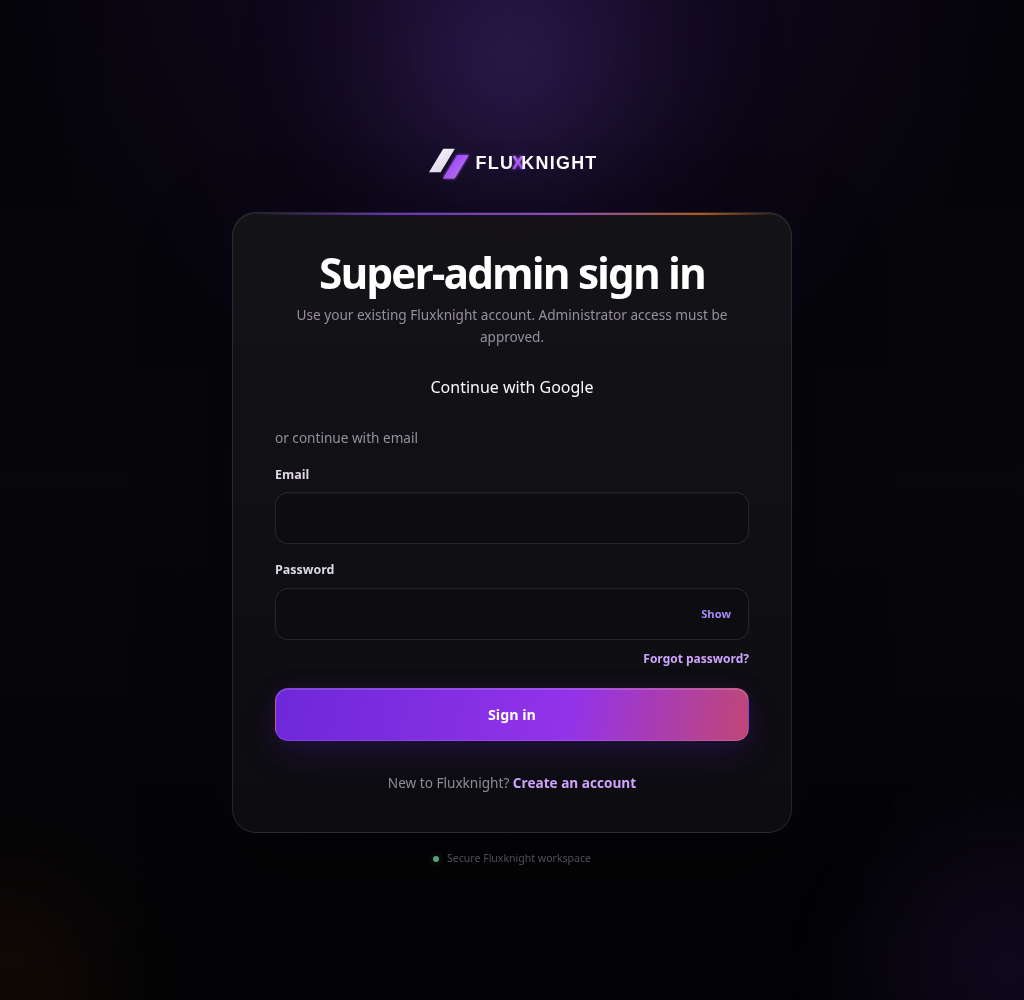
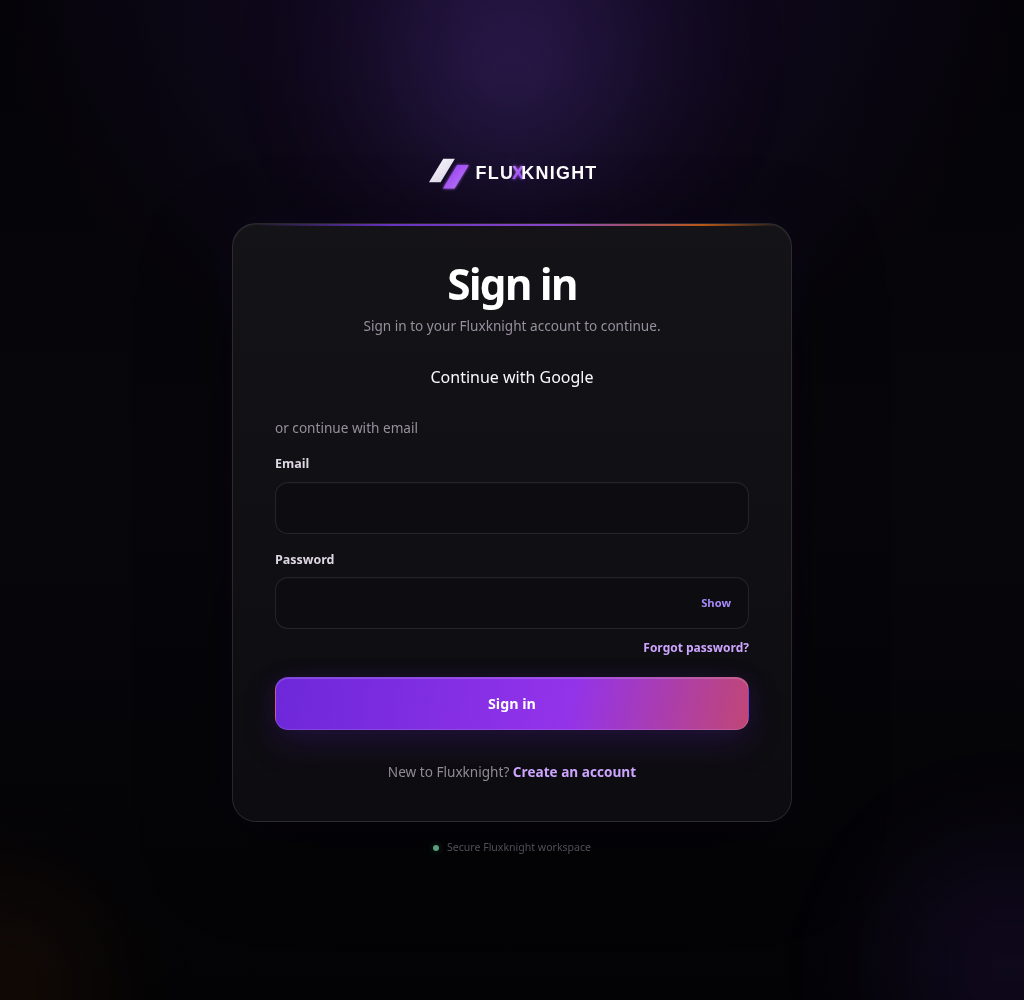
Keep shared sign-in copy neutral for all account roles

diff --git a/app/account/login/LoginForm.tsx b/app/account/login/LoginForm.tsx
@@ -1,6 +1,6 @@
 "use client";
 
-import { safeAuthPath, isAdminPath } from "@/lib/auth-navigation";
+import { safeAuthPath } from "@/lib/auth-navigation";
 import Link from "next/link";
 import { useState } from "react";
 import { useRouter } from "next/navigation";
@@ -14,7 +14,6 @@ export default function ClientLoginForm({ txRef = "", nextPath = "/portal", invi
   const [loading, setLoading] = useState(false);
 
   const safeNext = safeAuthPath(nextPath);
-  const adminAccess = isAdminPath(safeNext);
   const signupUrl = new URL("/account/signup", "https://fluxknight.local");
   if (txRef) signupUrl.searchParams.set("tx_ref", txRef);
   signupUrl.searchParams.set("next", safeNext);
@@ -73,8 +72,8 @@ export default function ClientLoginForm({ txRef = "", nextPath = "/portal", invi
   return (
     <form onSubmit={submit} className="admin-login-card">
       <div>
-        <h1>{adminAccess ? "Super-admin sign in" : "Welcome back"}</h1>
-        <p className="admin-muted">{adminAccess ? "Use your existing Fluxknight account. Administrator access must be approved." : "Sign in to your Fluxknight account to continue."}</p>
+        <h1>Sign in</h1>
+        <p className="admin-muted">Sign in to your Fluxknight account to continue.</p>
       </div>
       {txRef ? <p className="admin-form-message">Your payment is verified. Sign in to continue to onboarding.</p> : null}
       <GoogleAuthButton nextPath={safeNext} txRef={txRef} trialPlan="" invitationToken={invitationToken} />

diff --git a/docs/admin-account-login/README.md b/docs/admin-account-login/README.md
@@ -4,7 +4,7 @@
 
 The old `/login` checked a separate environment password and issued a signed admin cookie. Normal Fluxknight account credentials therefore did not grant access. The existing `platform_super_admins` registry was not consulted by app authentication. This change is based on main and is independent of onboarding PR #406 and design-system PR #408.
 
-`/login` now opens the existing account sign-in form. Password and Google sign-in use Supabase Auth; a verified provider user ID must have an active registry entry for platform access. Tenant ownership and editable profile metadata never grant this role. Account-based authorization checks the provider and registry on each admin request. Explicit invitations retain their existing flow. Tenant memberships, onboarding and lifecycle behavior remain in place.
+`/login` now opens the existing account sign-in form. Every account sees the same neutral “Sign in” heading and account description, including links targeting admin pages; roles affect authorization after authentication. Password and Google sign-in use Supabase Auth; a verified provider user ID must have an active registry entry for platform access. Tenant ownership and editable profile metadata never grant this role. Account-based authorization checks the provider and registry on each admin request. Explicit invitations retain their existing flow. Tenant memberships, onboarding and lifecycle behavior remain in place.
 
 Legacy operator credentials remain available at `/login?legacy=1` for recovery. Disabling a registry entry revokes account-based admin access, not legacy credentials. The public development signing fallback is disabled in production, and malformed legacy tokens are rejected. Logout clears provider cookie chunks even when remote sign-out fails.
 
